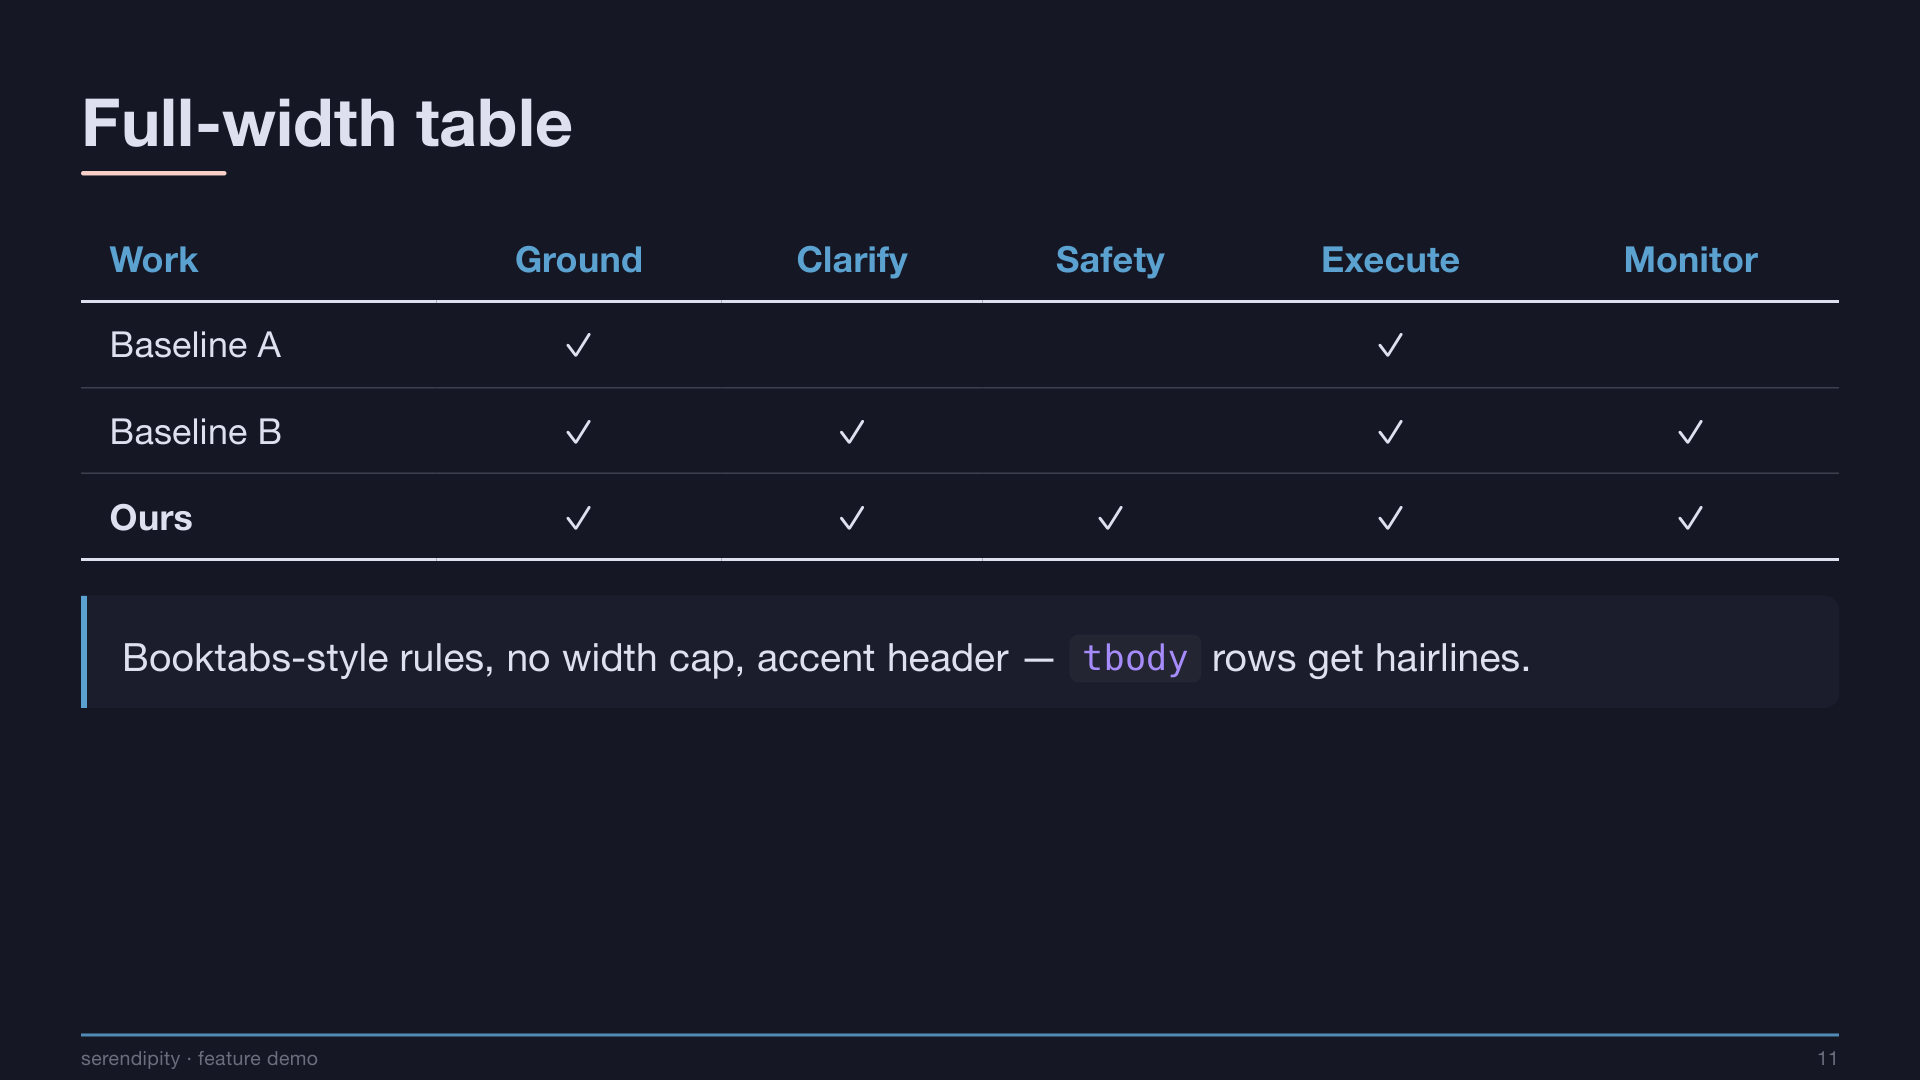
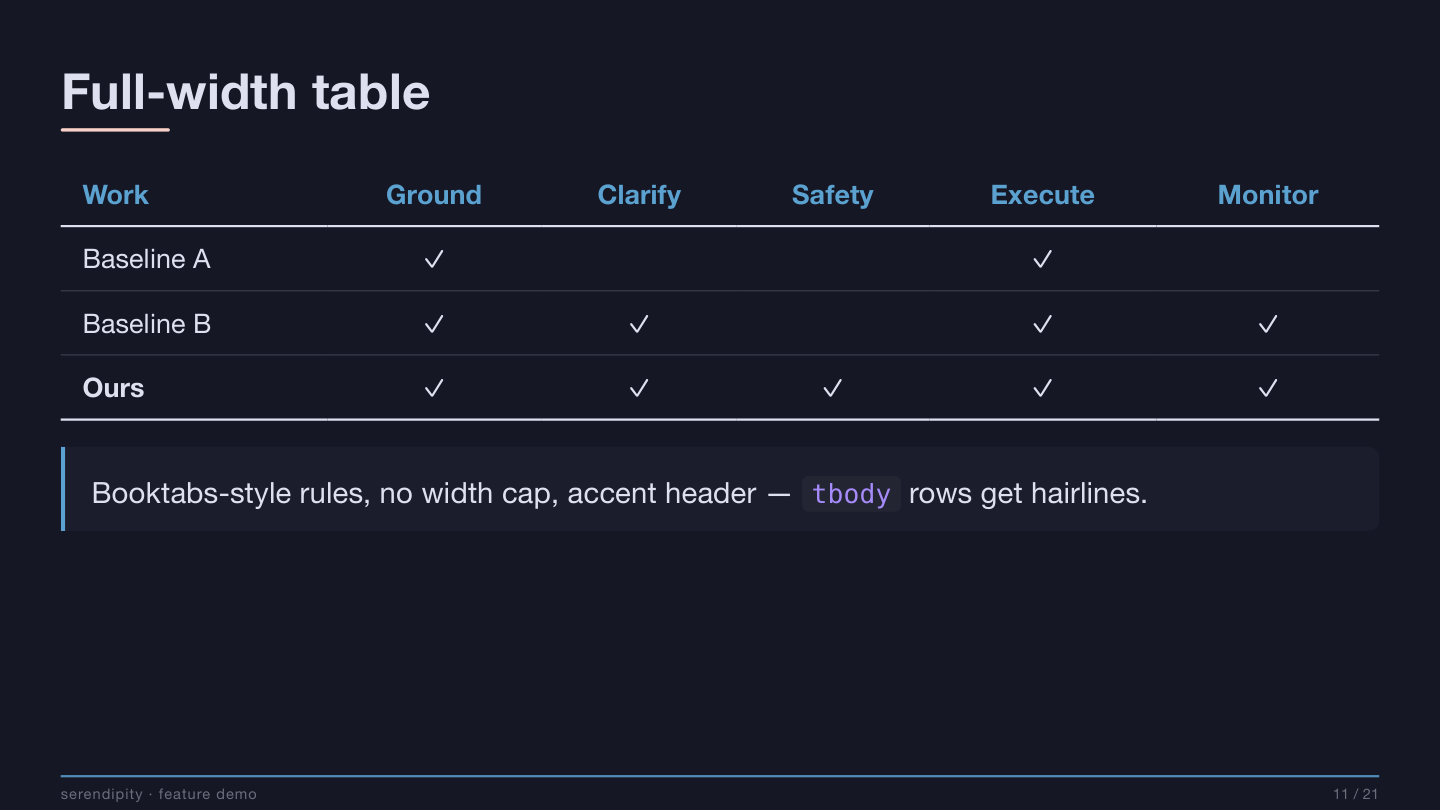
Refine footer: dot-bead fields, per-field bold via ***…***, n/total
Footer fields are now written as Markdown `**…**` segments (each becomes one
child), evenly separated by a small dot bead — no hand-typed `·` needed.
Emphasis is per-field and opt-in: `***…***` renders bold ink (slant dropped),
plain `**…**` stays muted. Track the band a touch wider and show `n / total`
for the page number. Reset `footer > *` so both <span> and **bold** fields
render in the calm footer style.

Demo nav slide and README previews updated to match.

diff --git a/css/serendipity.css b/css/serendipity.css
@@ -156,12 +156,20 @@ section::before {           /* the hairline — sits just above the foot band */
   content: ""; position: absolute; left: var(--pad); right: var(--pad);
   bottom: calc(var(--foot-pad) + var(--foot-y) + var(--foot-gap));
   height: 2px; background: var(--accent); opacity: .85; }
-footer {                    /* footer text — below the line, left; multiple <span>s become fields */
+footer {                    /* footer text — below the line, left; each field = one child element */
   position: absolute; left: var(--pad); right: var(--pad); bottom: var(--foot-pad);
-  height: var(--foot-y); display: flex; align-items: center; gap: 1.4em;
-  color: var(--muted); font-size: .5em; letter-spacing: .02em; }
-section::after {            /* page number — below the line, right */
-  content: attr(data-marpit-pagination);
+  height: var(--foot-y); display: flex; align-items: center; gap: 0;
+  color: var(--muted); font-size: .5em; letter-spacing: .07em; }
+/* fields: write each atom as a Markdown `**…**` segment — each becomes one child, evenly separated
+   by a small dot bead (no hand-typed `·` needed). Emphasis is per-field and opt-in: `***…***`
+   (triple-star) → bold ink; plain `**…**` stays muted. */
+footer > * { font-weight: inherit; color: inherit; }
+footer > * + *::before {        /* round dot bead between fields */
+  content: ""; display: inline-block; width: 3px; height: 3px; border-radius: 50%;
+  background: var(--muted); opacity: .55; margin: 0 .82em; vertical-align: middle; }
+footer em { font-style: normal; }   /* `***…***`: keep the bold ink (from `strong`), drop the slant */
+section::after {            /* page number — below the line, right; `n / total` */
+  content: attr(data-marpit-pagination) " / " attr(data-marpit-pagination-total);
   padding: 0;                /* override Marp's `padding:inherit`, which would push it up by --pad */
   position: absolute; right: var(--pad); bottom: var(--foot-pad);
   height: var(--foot-y); display: flex; align-items: center; justify-content: flex-end;

diff --git a/demo/demo.md b/demo/demo.md
@@ -231,15 +231,15 @@ Marpit's **native** background syntax splits the slide — no wrapper `<div>` ne
 
 <!-- _class: nav -->
 <!-- header: 'Motivation · **Method** · Results · Conclusion' -->
-<!-- _footer: '<span>Your Name</span><span>Method · Results</span><span>2026</span>' -->
+<!-- _footer: '***Your Name*** **Method** **Results** **2026**' -->
 
 # Optional top nav
 
 Add `<!-- _class: nav -->` plus a `header:` to get a quiet section nav
 (bold the current one). Useful for longer talks.
 
-> A tracked eyebrow up top with the current section in bold — and the **footer** here is three
-> `<span>` fields (`Name · Topic · Year`) that space out automatically.
+> A tracked eyebrow up top with the current section in bold — and the **footer** here is fields
+> written as Markdown `**…**` segments, dot-bead separated; `***…***` emphasises one (the byline).
 
 ---
 